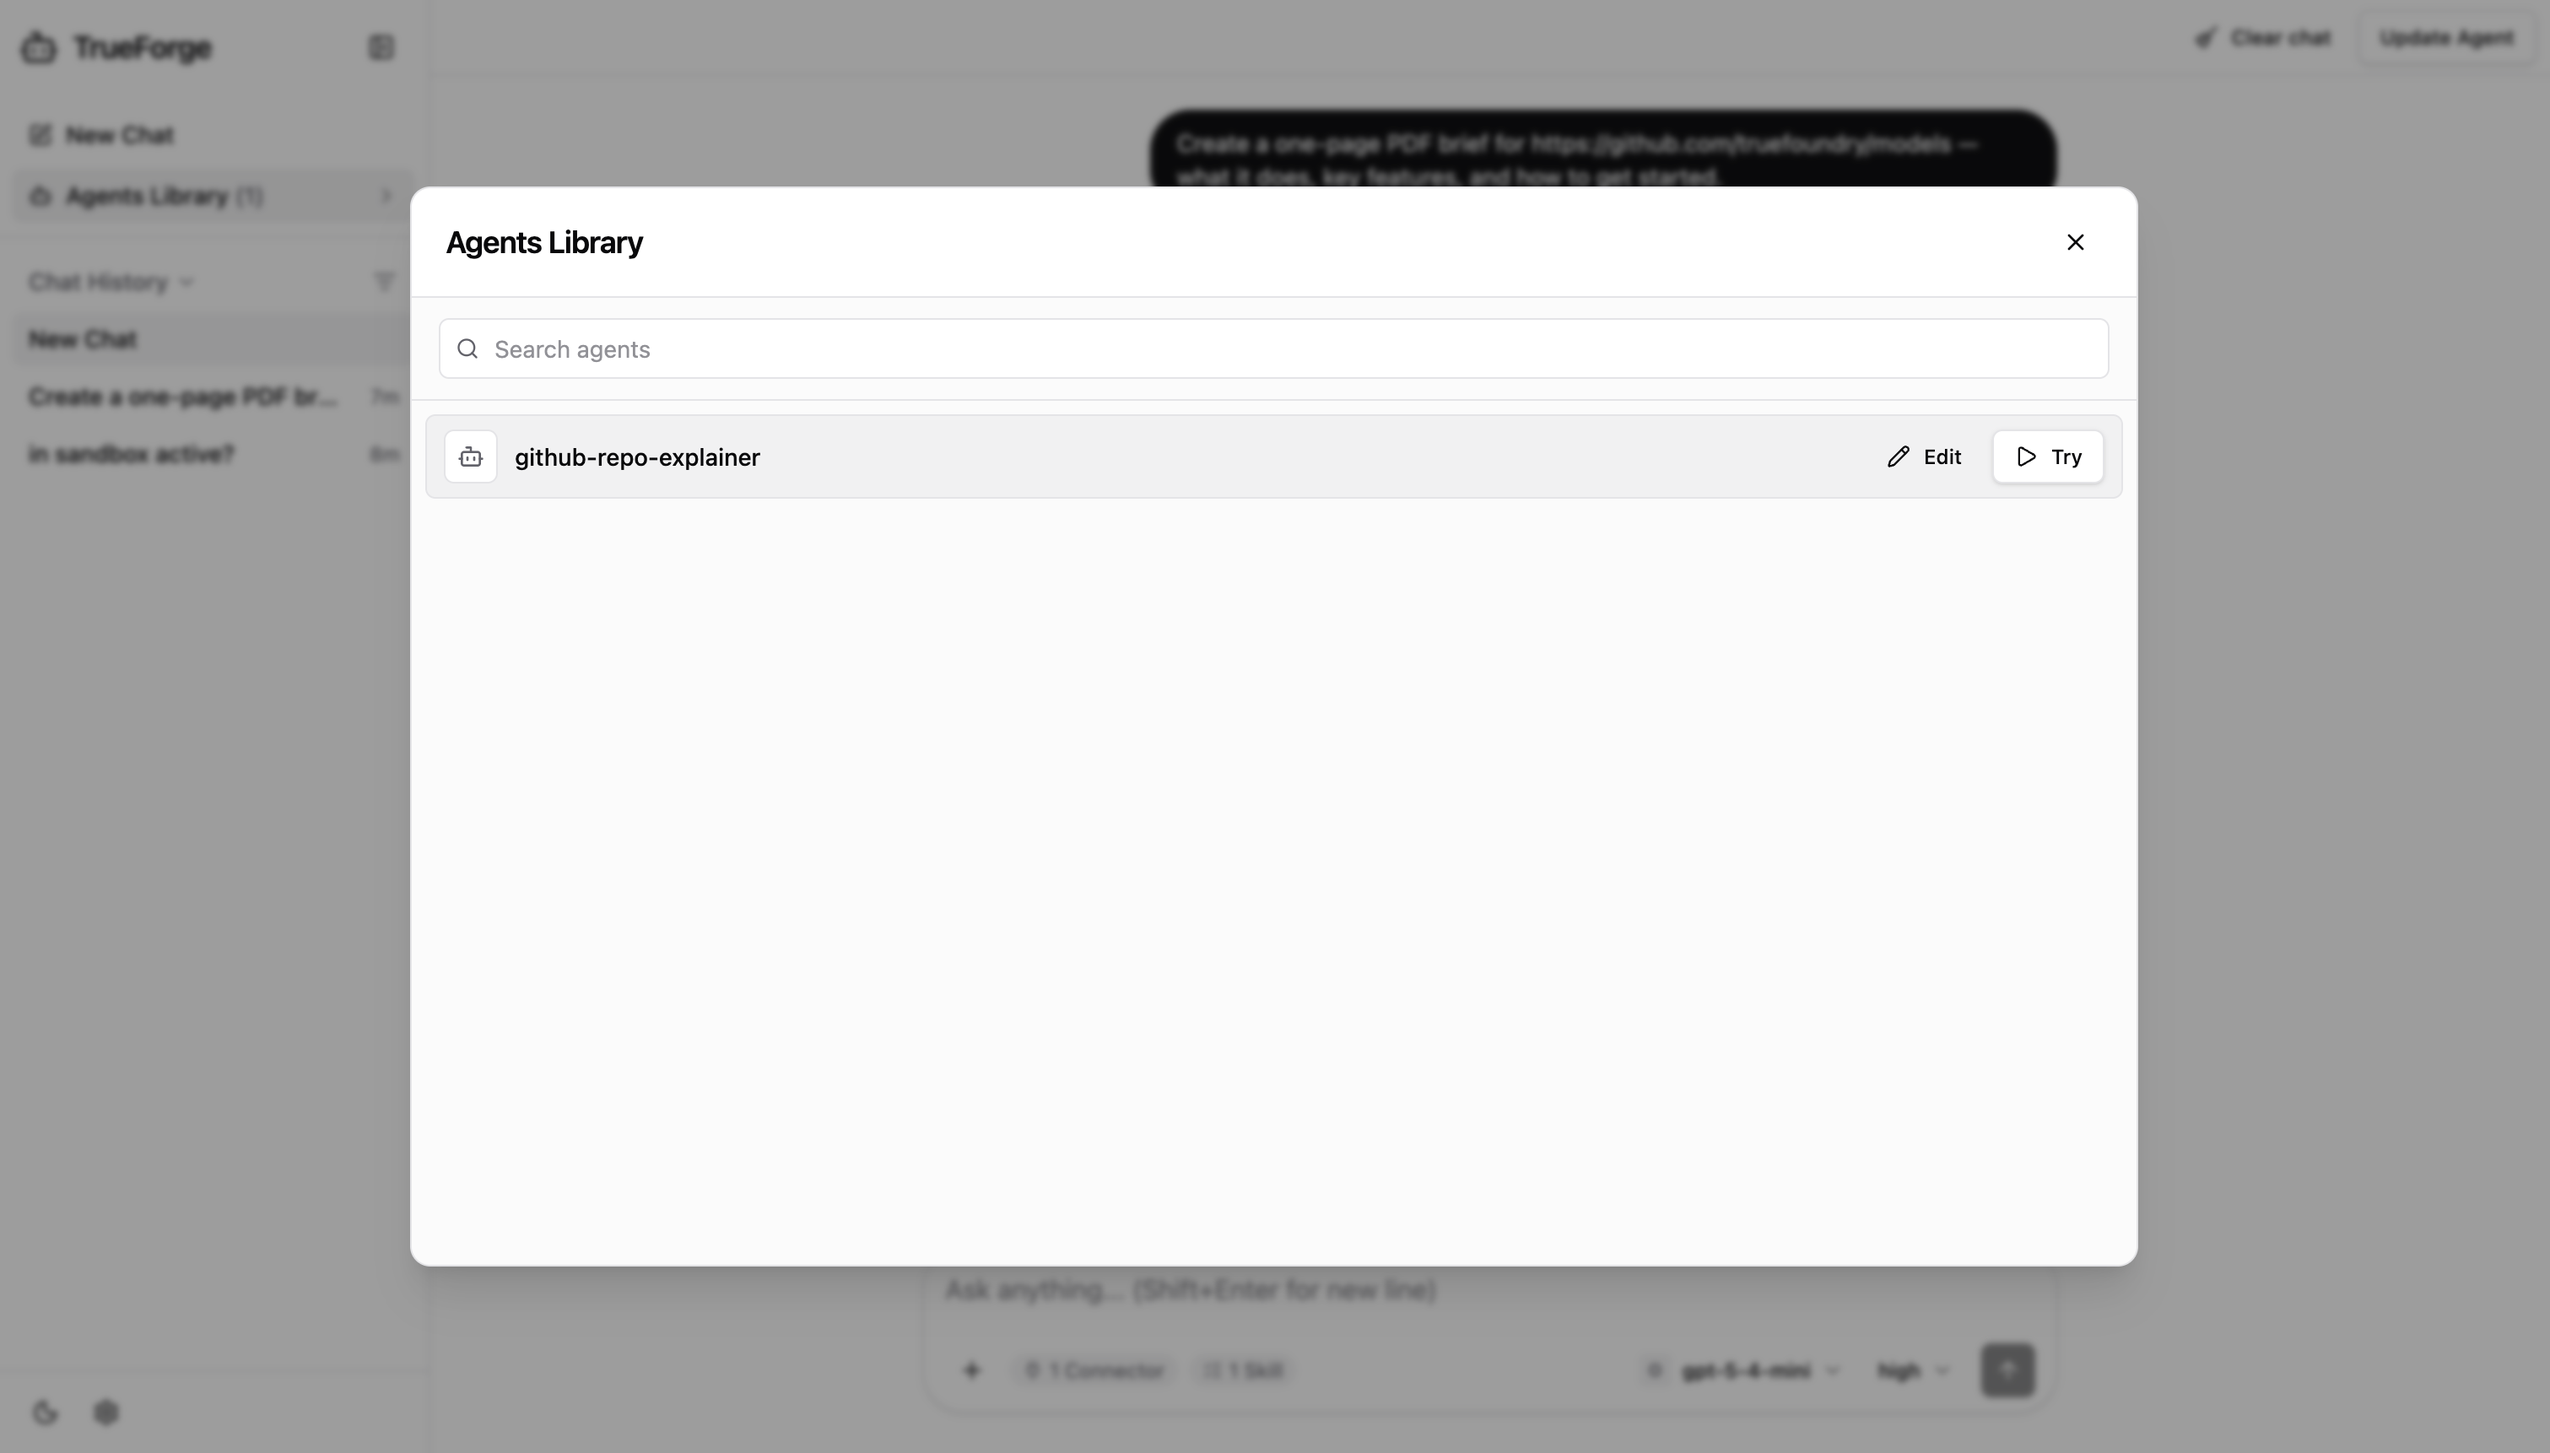
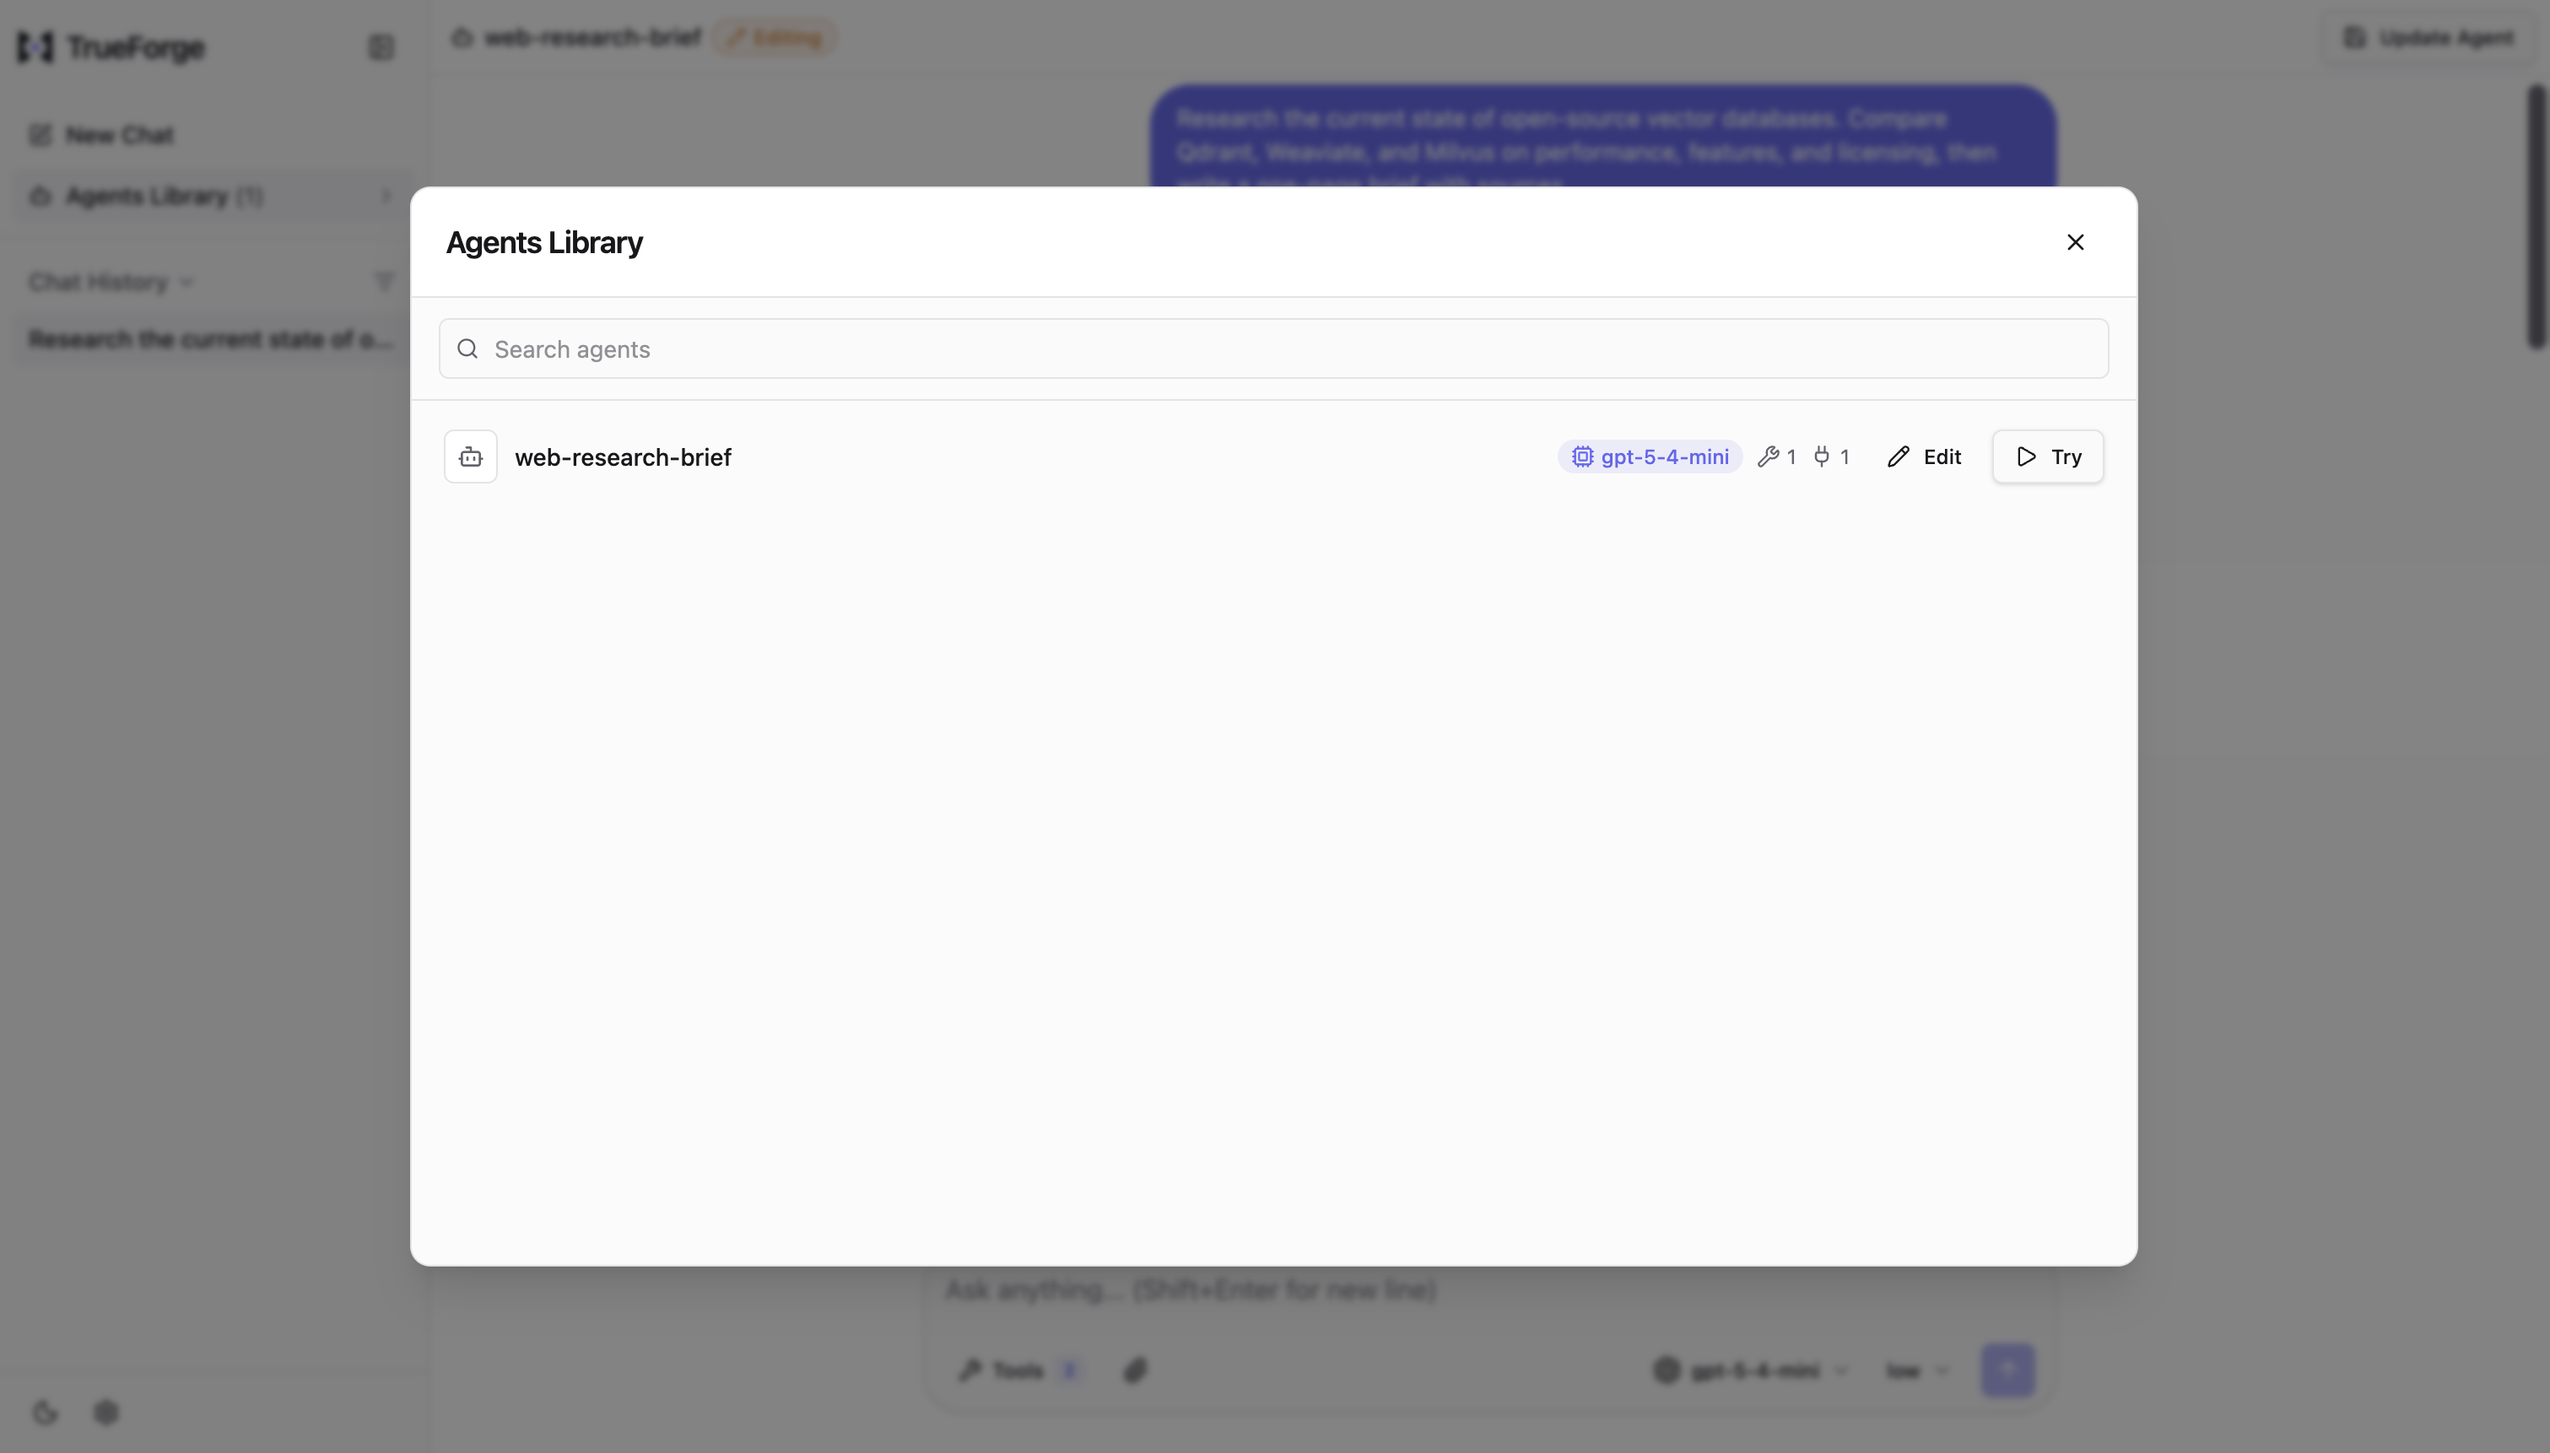
docs: new web-research quickstart example + refreshed screenshots (#263)
* docs: new web-research quickstart example + refreshed screenshots

Replace the DeepWiki + pdf-skill 'GitHub repo explainer' walkthrough with a 'web research briefer': Exa (web search, no-auth) + web-artifacts-builder skill + Daytona sandbox + dynamic subagents, producing an interactive one-page brief. Refreshes all screenshots to the current UI (Configure Provider Details modal, connector auth-type labels, one-click skill Enable, the composer Tools menu with a Dynamic sub-agents capability toggle, Save Agent -> Save changes). Uses side-by-side Columns for the model and sandbox steps and a 3-up for the compose tabs to keep the scroll short. Drops the DeepWiki (flaky) and pdf (Anthropic-proprietary) dependencies.

* docs(readme): update Build-your-first-agent to the web-research example + refreshed screenshots

Mirror the quickstart's web-research-brief example (Exa + web-artifacts-builder + subagents -> interactive brief) with the vector-DB prompt, and point the steps at the refreshed screenshots. Fixes the broken quickstart-sandbox.png reference (now quickstart-sandbox-connected.png) and adds the interactive-brief result shot.

---------

diff --git a/README.md b/README.md
@@ -106,25 +106,33 @@ See the [chart README](charts/trueforge/README.md) (including [`configs.oidc`](c
 
 ## Build your first agent
 
-Full walkthrough: [Quickstart](https://trueforge.dev/quickstart).
+Full walkthrough: [Quickstart](https://trueforge.dev/quickstart). The example below builds a **web research briefer** — it searches the web, fans out to parallel subagents, and renders an interactive brief.
 
-1. **Setup models** - **Settings → Models**, pick a catalog provider, paste your API key.
+1. **Add a model provider** - **Settings → Models**, pick a provider, paste your API key.
 
    ![Configure a model provider](./docs/images/quickstart-models.png)
 
-2. **Setup connectors & skills** (optional) - **Settings → Connectors** / **Skills**. Skills need a sandbox.
+2. **Connect a web-search tool** - **Settings → Connectors**, connect **Exa** (no auth). Then under **Settings → Skills**, enable **web-artifacts-builder** (skills run in a sandbox).
 
-   ![Connectors](./docs/images/quickstart-connectors.png)
+   ![Connect Exa in Settings → Connectors](./docs/images/quickstart-connectors.png)
 
-3. **Setup sandbox** (optional) - **Settings → Sandbox providers**. Daytona is the only provider supported today.
+3. **Add a sandbox** - **Settings → Sandbox providers**, configure **Daytona** (the provider supported today).
 
-   ![Sandbox](./docs/images/quickstart-sandbox.png)
+   ![Daytona sandbox connected](./docs/images/quickstart-sandbox-connected.png)
 
-4. **Create an agent** - pick a model, attach connectors/skills, write instructions, then **Save as agent**.
+4. **Compose and run** - pick a model, enable Exa and web-artifacts-builder, then send a prompt:
 
-   ![Save as agent](./docs/images/quickstart-save-agent.png)
+   > Research the current state of open-source vector databases. Compare Qdrant, Weaviate, and Milvus on performance, features, and licensing, then write a one-page brief with sources.
 
-5. **Find it in the Agent Library** - open **Agents Library**, then **Try** or **Edit**. In hosted mode with login enabled, agents created by anyone are visible to everyone - see [Agent Library](https://trueforge.dev/agent-library).
+   The agent searches with Exa, delegates to parallel subagents, and renders an interactive brief.
+
+   ![The agent's interactive research brief](./docs/images/quickstart-chat-result.png)
+
+5. **Save as an agent** - click **Save Agent** and name it `web-research-brief`.
+
+   ![Save agent](./docs/images/quickstart-save-agent.png)
+
+6. **Find it in the Agent Library** - open **Agents Library**, then **Try** or **Edit**. In hosted mode with login enabled, agents created by anyone are visible to everyone - see [Agent Library](https://trueforge.dev/agent-library).
 
    ![Agents Library](./docs/images/quickstart-agents-library.png)
 
